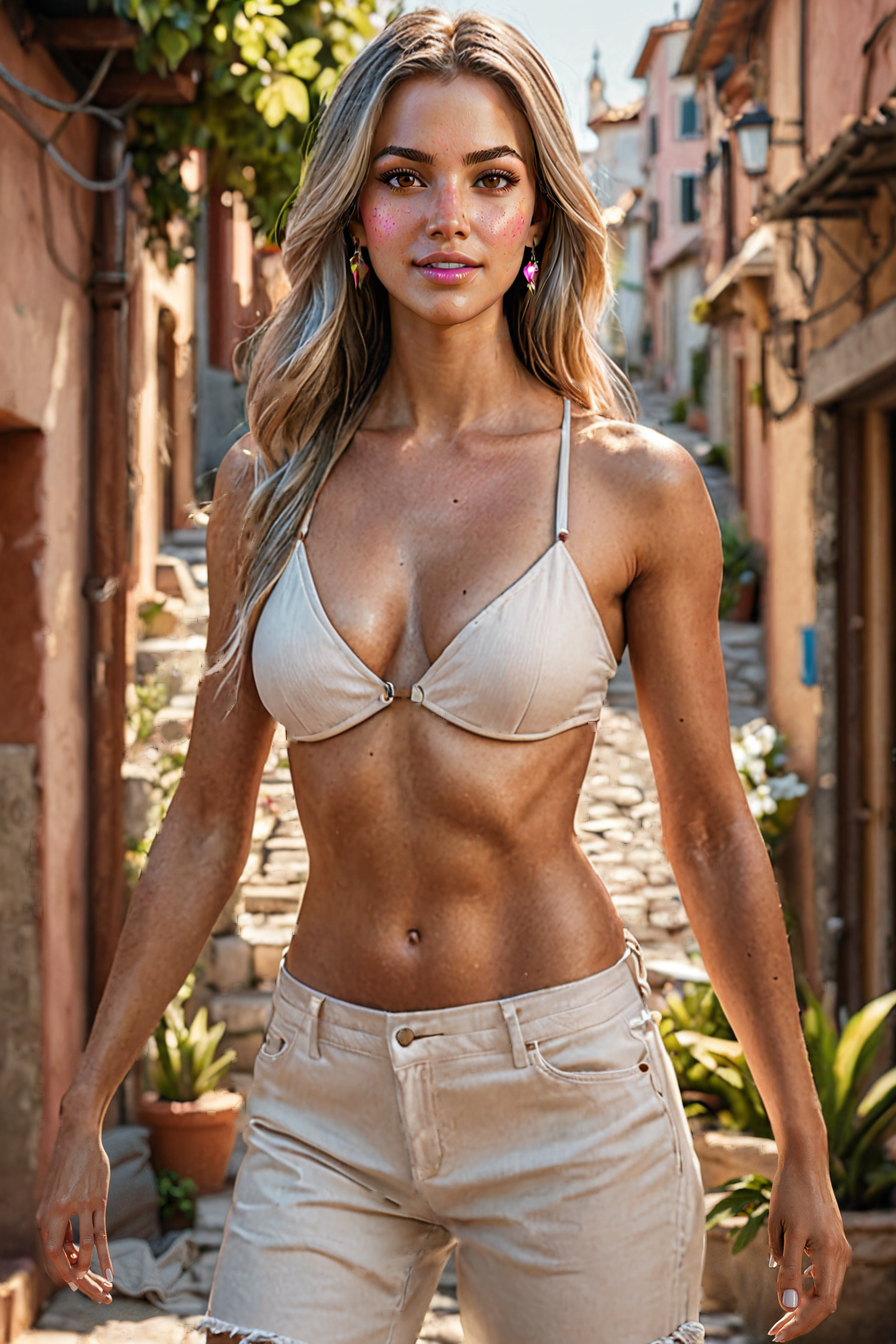
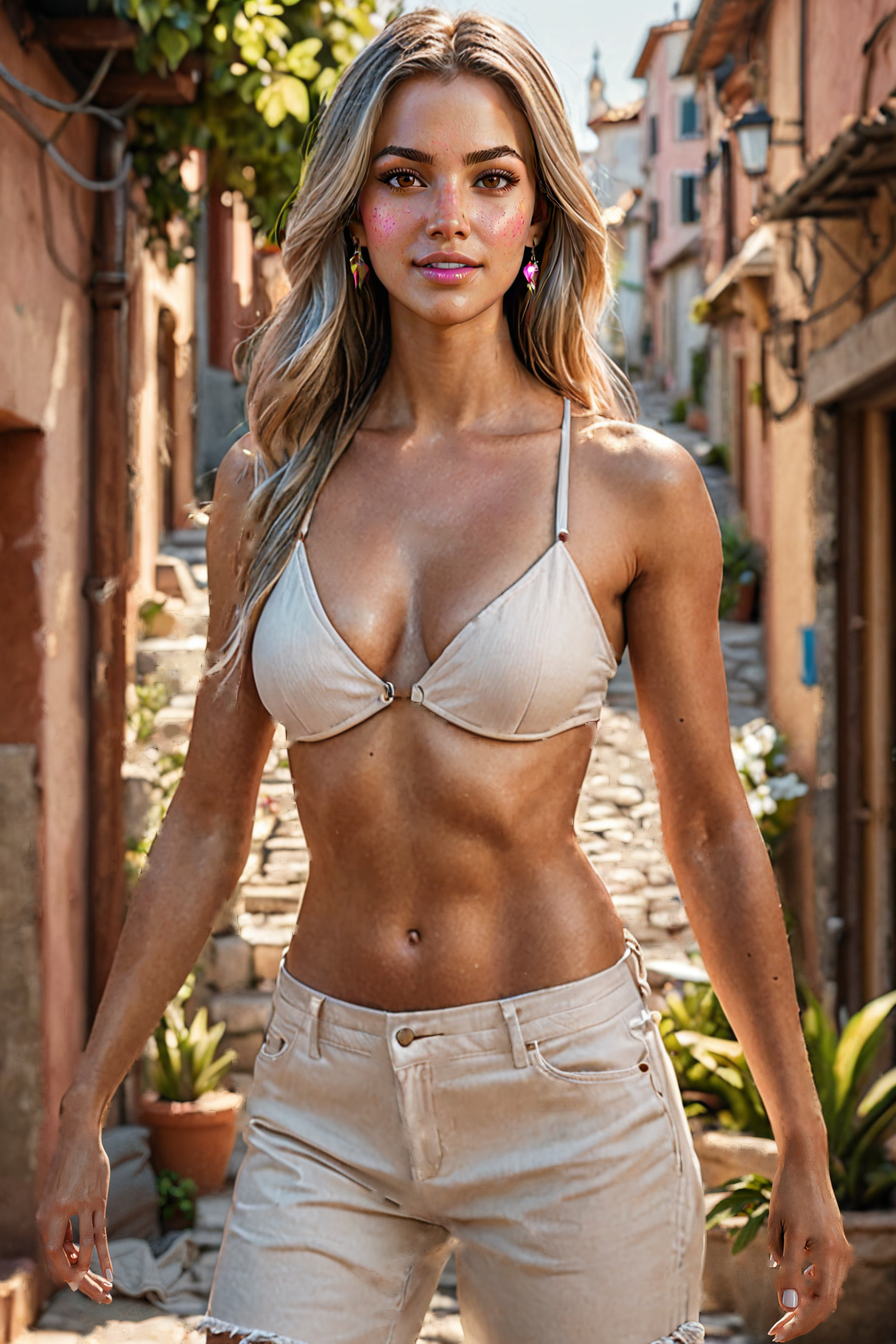
Sunny : derniers points de beauté de la poitrine effacés
Claude-Session: https://claude.ai/code/session_01BD2ZNdNirrTphS8qn6eUXX

diff --git a/studio/avatar/postures.py b/studio/avatar/postures.py
@@ -18,7 +18,7 @@ from PIL import Image, ImageDraw, ImageFilter
 ICI = Path(__file__).parent
 MODELE = "Lykon/dreamshaper-xl-lightning"
 EPAULES = {"g": (245, 480), "d": (640, 480)}
-ANCIENS_BRAS = [[(245, 480), (190, 880), (80, 1290)], [(640, 480), (700, 870), (805, 1290)]]
+ANCIENS_BRAS = [[(240, 480), (175, 880), (70, 1300), (60, 1344)], [(645, 480), (725, 880), (825, 1300), (835, 1344)]]
 VISAGE = (335, 95, 575, 345)
 
 # chaque posture : coudes, poignets (gauche, droite), consigne
@@ -64,8 +64,8 @@ def main():
     # 1. anciens bras effacés (remplissage depuis le décor / le corps voisins)
     vieux = Image.new("L", (W, H), 0); dv = ImageDraw.Draw(vieux)
     for b in ANCIENS_BRAS:
-        tracer(dv, b[1:], 95)
-        dv.line([b[0], b[1]], fill=255, width=80)
+        tracer(dv, b[1:], 135)
+        dv.line([b[0], b[1]], fill=255, width=95)
     base = cv2.inpaint(np.array(img), np.array(vieux), 25, cv2.INPAINT_TELEA)
 
     # 2. nouveaux bras esquissés en couleur de peau (le haut du bras part de l'épaule d'origine)
